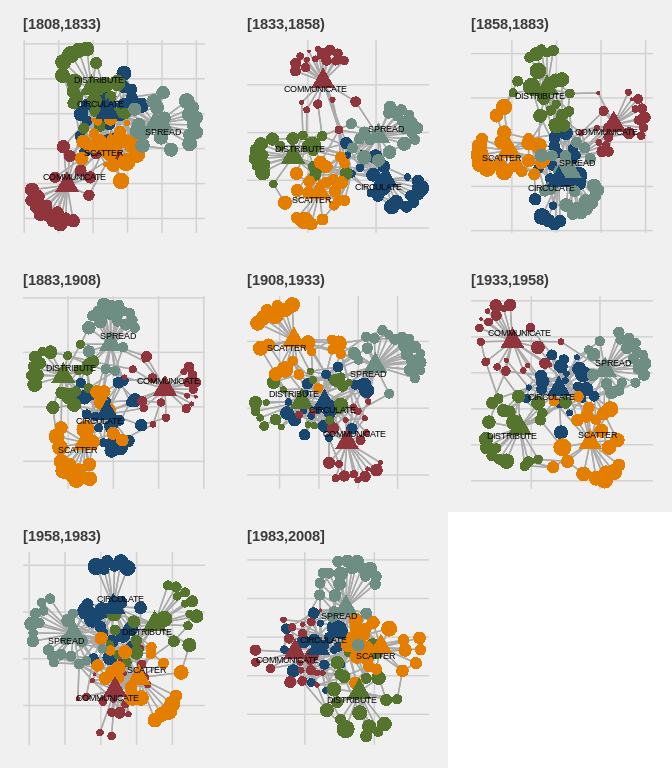
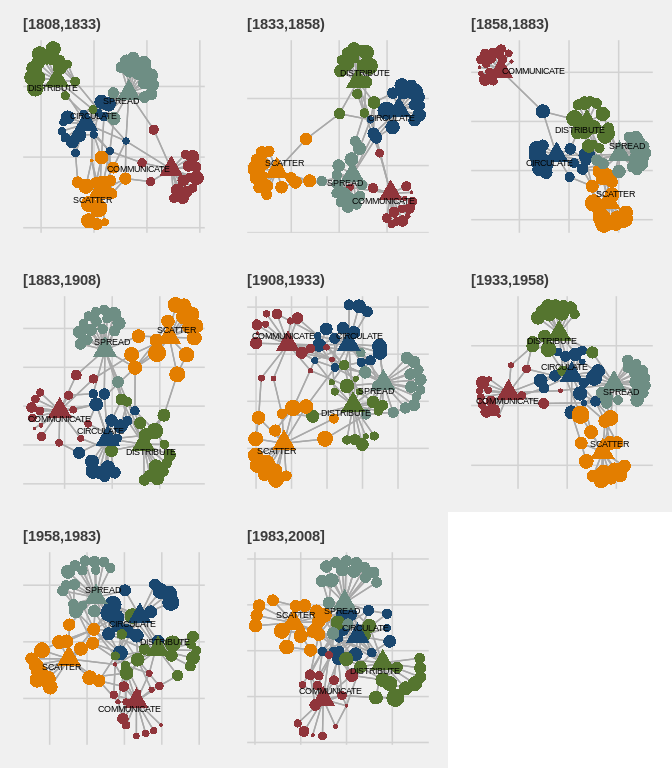
1-19-20

diff --git a/README.md b/README.md
@@ -546,14 +546,9 @@ search1 <-  c('SPREAD',
               'SCATTER', 
               'COMMUNICATE') 
          
-#net1 <- lexvarsdatr::lvdr_extract_network (tfm = tfms_ppmi, 
-#                                                 target = search1,
-#                                                 n = 15)
-
-
 net1 <- lapply (tfms_ppmi, lexvarsdatr::lvdr_extract_network, 
                 target = search1, 
-                n = 20) 
+                n = 15)
 ```
 
 Via `tidygraph`, `ggraph` & `gridExtra`, we plot the evolution of the
